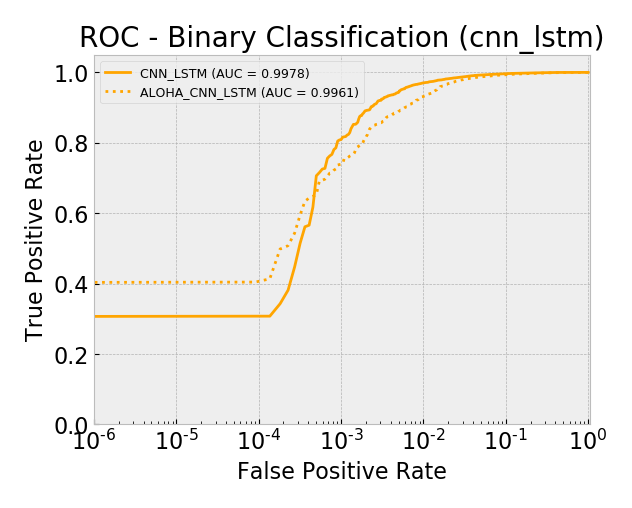
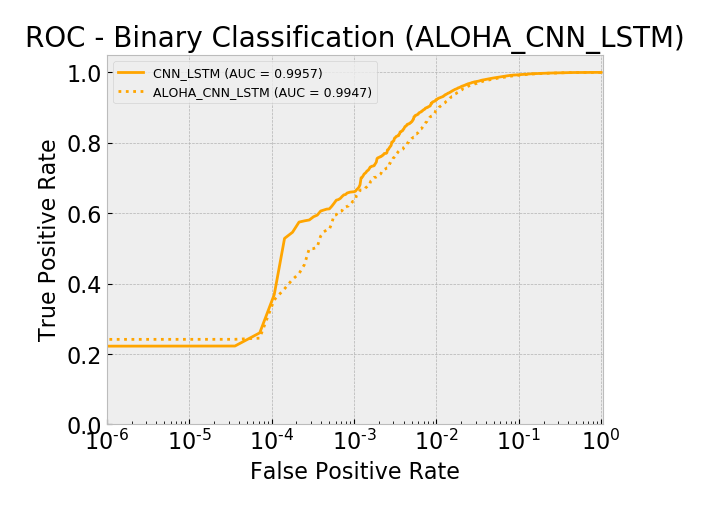
updated auxiliary-loss-optimization-for-hypothesis-augmentation-for-dga-domain-detection.md with new metrics and graphics after adding loss weights and dict DGAs

diff --git a/_posts/2019-07-17-auxiliary-loss-optimization-for-hypothesis-augmentation-for-dga-domain-detection.md b/_posts/2019-07-17-auxiliary-loss-optimization-for-hypothesis-augmentation-for-dga-domain-detection.md
@@ -12,6 +12,8 @@ share: true
 
 This post outlines some experiments I ran using Auxiliary Loss Optimization for Hypothesis Augmentation (ALOHA) for DGA domain detection.
 
+**(Update 2019-07-18)** After getting feedback from one of the ALOHA paper authors, I [modified my code](https://github.com/covert-labs/aloha_dga/pull/2) to set loss weights for the auxilary targets as they did in their paper (Weights used: main target 1.0, auxilary targets 0.1).  I also added 3 word-based/dictionary DGAs.  All diagrams and metrics have been updated to reflect this.
+
 I recently read this paper [ALOHA: Auxiliary Loss Optimization for Hypothesis Augmentation
 ](https://arxiv.org/abs/1903.05700) by Ethan M. Rudd, Felipe N. Ducau, Cody Wild, Konstantin Berlin, and Richard Harang from Sophos Lab.  This [research](https://www.usenix.org/conference/usenixsecurity19/presentation/rudd) will be presented at [USENIX Security 2019](https://www.usenix.org/conference/usenixsecurity19) in Aug, 2019.  This paper shares findings that supplying more prediction targets to their model at training time, they can improve the prediction performance of the primary prediction target.  More specifically, they modify a deep learning based model for detecting malware (binary classifier) to also predict things like individual vendor predictions, malware tags, and number of VT detections.  Their "auxiliary loss architecture yields a significant reduction in detection error rate (false negatives) of 42.6% at a false positive rate (FPR) of 10^−3 when compared to a similar model with only one target, and a decrease of 53.8% at 10^−5 FPR."
 
@@ -32,10 +34,11 @@ I decided to explore the last use case of how well auxiliary loss optimizations 
 
 ### Data:
 
-For this work, I used the same data sources selected by Endgame's dga_predict.
+For this work, I used the same data sources selected by Endgame's dga_predict (but I added 3 additional DGAs: gozi, matsnu, and suppobox).
 
 * Alexa top 1m domains
-* DGA domains for the following malware families: banjori, corebot, cryptolocker, dircrypt, kraken, lockyv2, pykspa, qakbot, ramdo, ramnit, simda
+* classical DGA domains for the following malware families: banjori, corebot, cryptolocker, dircrypt, kraken, lockyv2, pykspa, qakbot, ramdo, ramnit, and simda.
+* Word-based/dictionary DGA domains for the following malware families - gozi, matsnu, and suppobox
 
 ### Baseline Models: 
 
@@ -72,18 +75,21 @@ In [3]: data = pickle.loads(open('traindata.pkl', 'rb').read())
 
 In [4]: Counter([d[0] for d in data]).most_common(100)
 Out[4]: 
-[('benign', 109935),
- ('corebot', 10000),
- ('dircrypt', 10000),
- ('kraken', 10000),
- ('pykspa', 10000),
+[('benign', 139935),
  ('qakbot', 10000),
+ ('dircrypt', 10000),
+ ('pykspa', 10000),
+ ('corebot', 10000),
+ ('kraken', 10000),
+ ('suppobox', 10000),
+ ('gozi', 10000),
  ('ramnit', 10000),
+ ('matsnu', 10000),
  ('locky', 9999),
  ('banjori', 9984),
- ('cryptolocker', 9984),
+ ('simda', 9984),
  ('ramdo', 9984),
- ('simda', 9984)]
+ ('cryptolocker', 9984)]
 
 ```
 
@@ -91,16 +97,17 @@ Out[4]:
 
 Model AUC scores (sorted by AUC):
 
-* cnn_lstm: 0.9978
-* aloha_lstm: 0.9975
-* lstm: 0.9973
-* aloha_cnn_lstm: 0.9961
-* cnn: 0.9959
-* aloha_cnn: 0.9931
-* bigram: 0.9821
-* aloha_bigram: 0.9788
+* aloha_bigram 0.9435
+* bigram 0.9444
+* cnn 0.9817
+* aloha_cnn 0.9820
+* lstm 0.9944
+* aloha_cnn_lstm 0.9947
+* aloha_lstm 0.9950
+* cnn_lstm 0.9957
 
-Overall, by AUC, the ALOHA technique only seemed to improve the LSTM model and only marginally.  The ROC curves show reductions in the error rates at very low false positive rates (between 10^-5 and 10^-3) which is similar to those gains seen in the ALOHA paper, yet the paper's gains appeared much larger.  
+
+Overall, by AUC, the ALOHA technique only seemed to improve the LSTM and CNN models and only marginally.  The ROC curves show reductions in the error rates at very low false positive rates (between 10^-5 and 10^-3) which is similar to those gains seen in the ALOHA paper, yet the paper's gains appeared much larger.  
 
 <a href="/images/aloha-dga/results-linear-all-1.0.png"><img src="/images/aloha-dga/results-linear-all-1.0.png" width="400px"></a><br>
 **ROC: All Models Linear Scale**
@@ -120,6 +127,15 @@ Overall, by AUC, the ALOHA technique only seemed to improve the LSTM model and o
 <a href="/images/aloha-dga/results-logscale-lstm-0.000001-to-1.05.png"><img src="/images/aloha-dga/results-logscale-lstm-0.000001-to-1.05.png" width="400px"></a><br>
 **ROC: LSTM Models Log Scale**
 
+**Heatmap**
+
+Below is a heatmap showing the percentage of detections across all the malware families for each model.  Low numbers are good for the benign label (top row), high numbers are good for all the others.
+
+Note the last 3 rows are all word-based/dictionary DGAs.  It is interesting, although not too surprising that the models that include LSTMs tended to do better against these DGAs.
+
+I annotated with green boxes places where the ALOHA models did better.  This seems to be most apparent with the models that include LSTMs and for the word-based/dictionary DGAs.
+
+<a href="/images/aloha-dga/heatmap.png"><img src="/images/aloha-dga/heatmap.png" width="400px"></a><br>
 
 ### Future Work:
 
